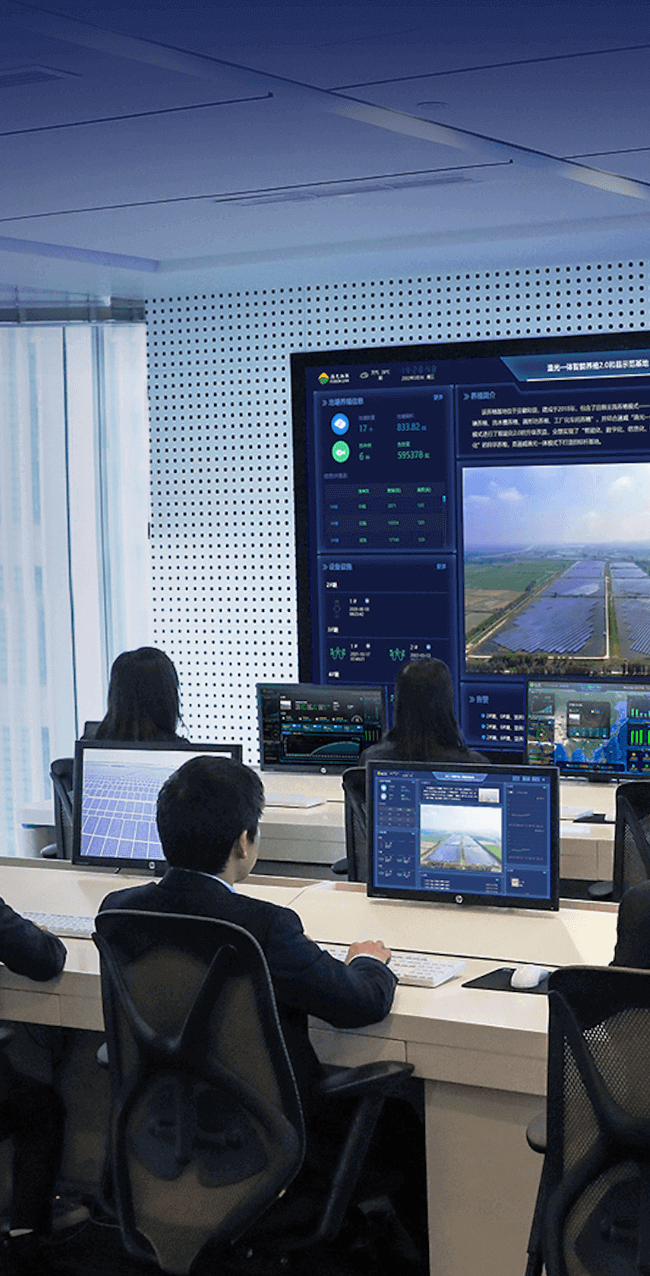
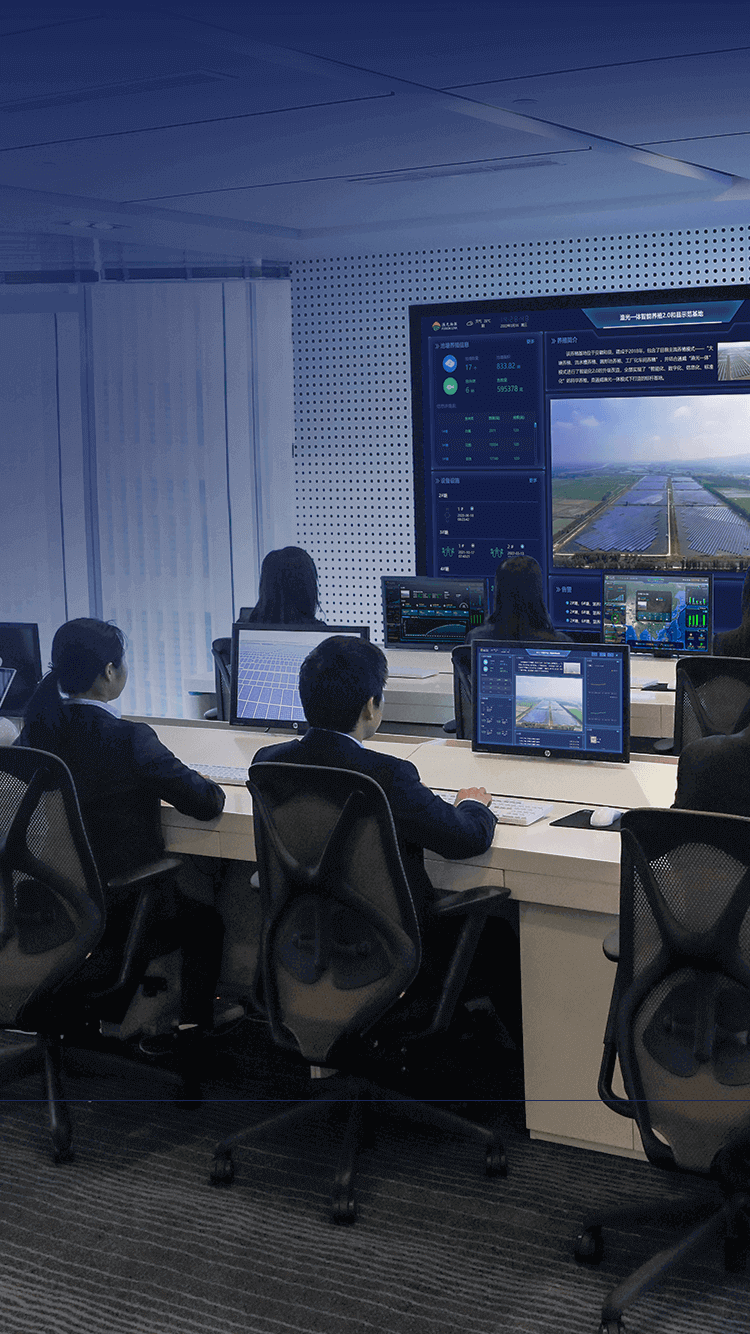
fix: 移动端背景图调整；

diff --git a/src/mobile/Home/Home.vue b/src/mobile/Home/Home.vue
@@ -200,12 +200,12 @@ onBeforeUnmount(() => {
 
     &.index-1-bg {
         background: url('../../assets/images/home_mobile_01.png') 0 0 no-repeat;
-        background-size: 115% 100%;
+        background-size: auto 100%;
     }
 
     &.index-2-bg {
         background: url('../../assets/images/home_mobile_02.png') 0 0 no-repeat;
-        background-size: 115% 100%;
+        background-size: auto 100%;
 
         .index-container {
             margin: 5vh 0 0 0;
@@ -295,12 +295,12 @@ onBeforeUnmount(() => {
 
     &.index-3-bg {
         background: url(../../assets/images/home_mobile_03.png) 0 0 no-repeat;
-        background-size: 102% 100%;
+        background-size: auto 100%;
     }
 
     &.index-0-bg {
         background: url('../../assets/images/home_mobile_04.png') 0 0 no-repeat;
-        background-size: 115% auto;
+        background-size: auto 100%;
     }
 
     .title-container {
